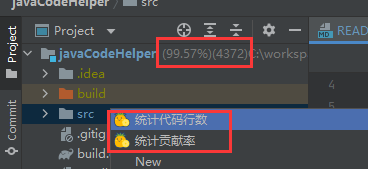
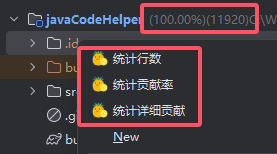
v2.7.0

diff --git a/README.md b/README.md
@@ -58,7 +58,8 @@ Database中右击选中 <br />
 ## 代码统计
 先配置统计的文件类型（例：.java）。配置路径：File > Setting > Other Settings > JavaCodeHelp > 代码统计<br />
 右击项目视图任意区域，选择'统计行数'，统计选中模块的总代码行数<br />
-右击项目视图任意区域，选择'统计贡献率'，统计选中模块的代码贡献率（未提交的代码不算做自己的），时间较长，耐心等待 (っ °Д °;)っ<br />
+右击项目视图任意区域，选择'统计贡献率'，统计选中模块的代码贡献率（未提交代码不参与），时间较长，耐心等待 (っ °Д °;)っ<br />
+右击项目视图任意区域，选择'统计详细贡献'，统计选中模块指定日期后所有已提交代码的贡献情况，时间较长，耐心等待 (っ °Д °;)っ<br />
 目前注释判断仅支持.java、.xml文件<br />
 ![image](src/main/resources/example/codeStatistics.png)<br />
 
